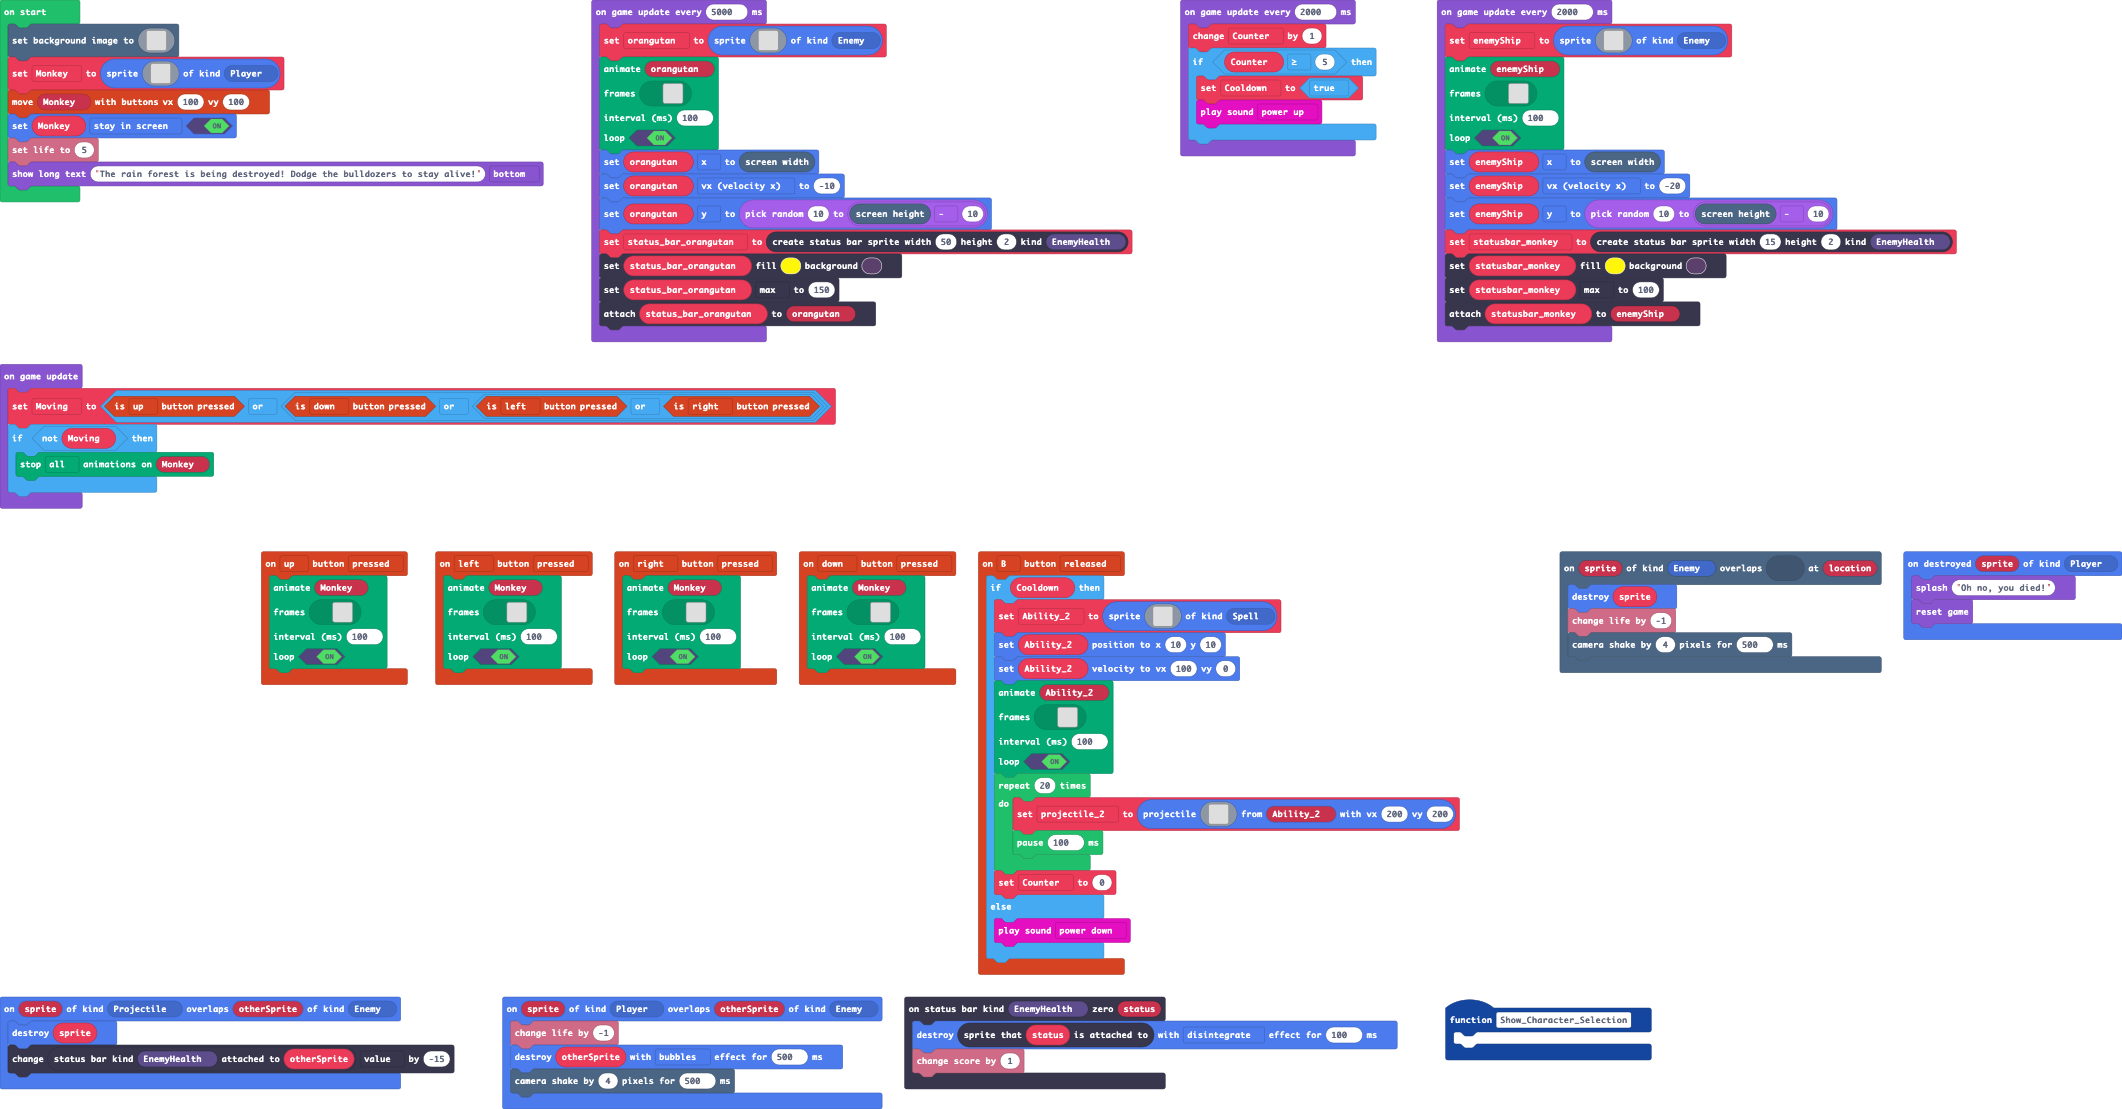
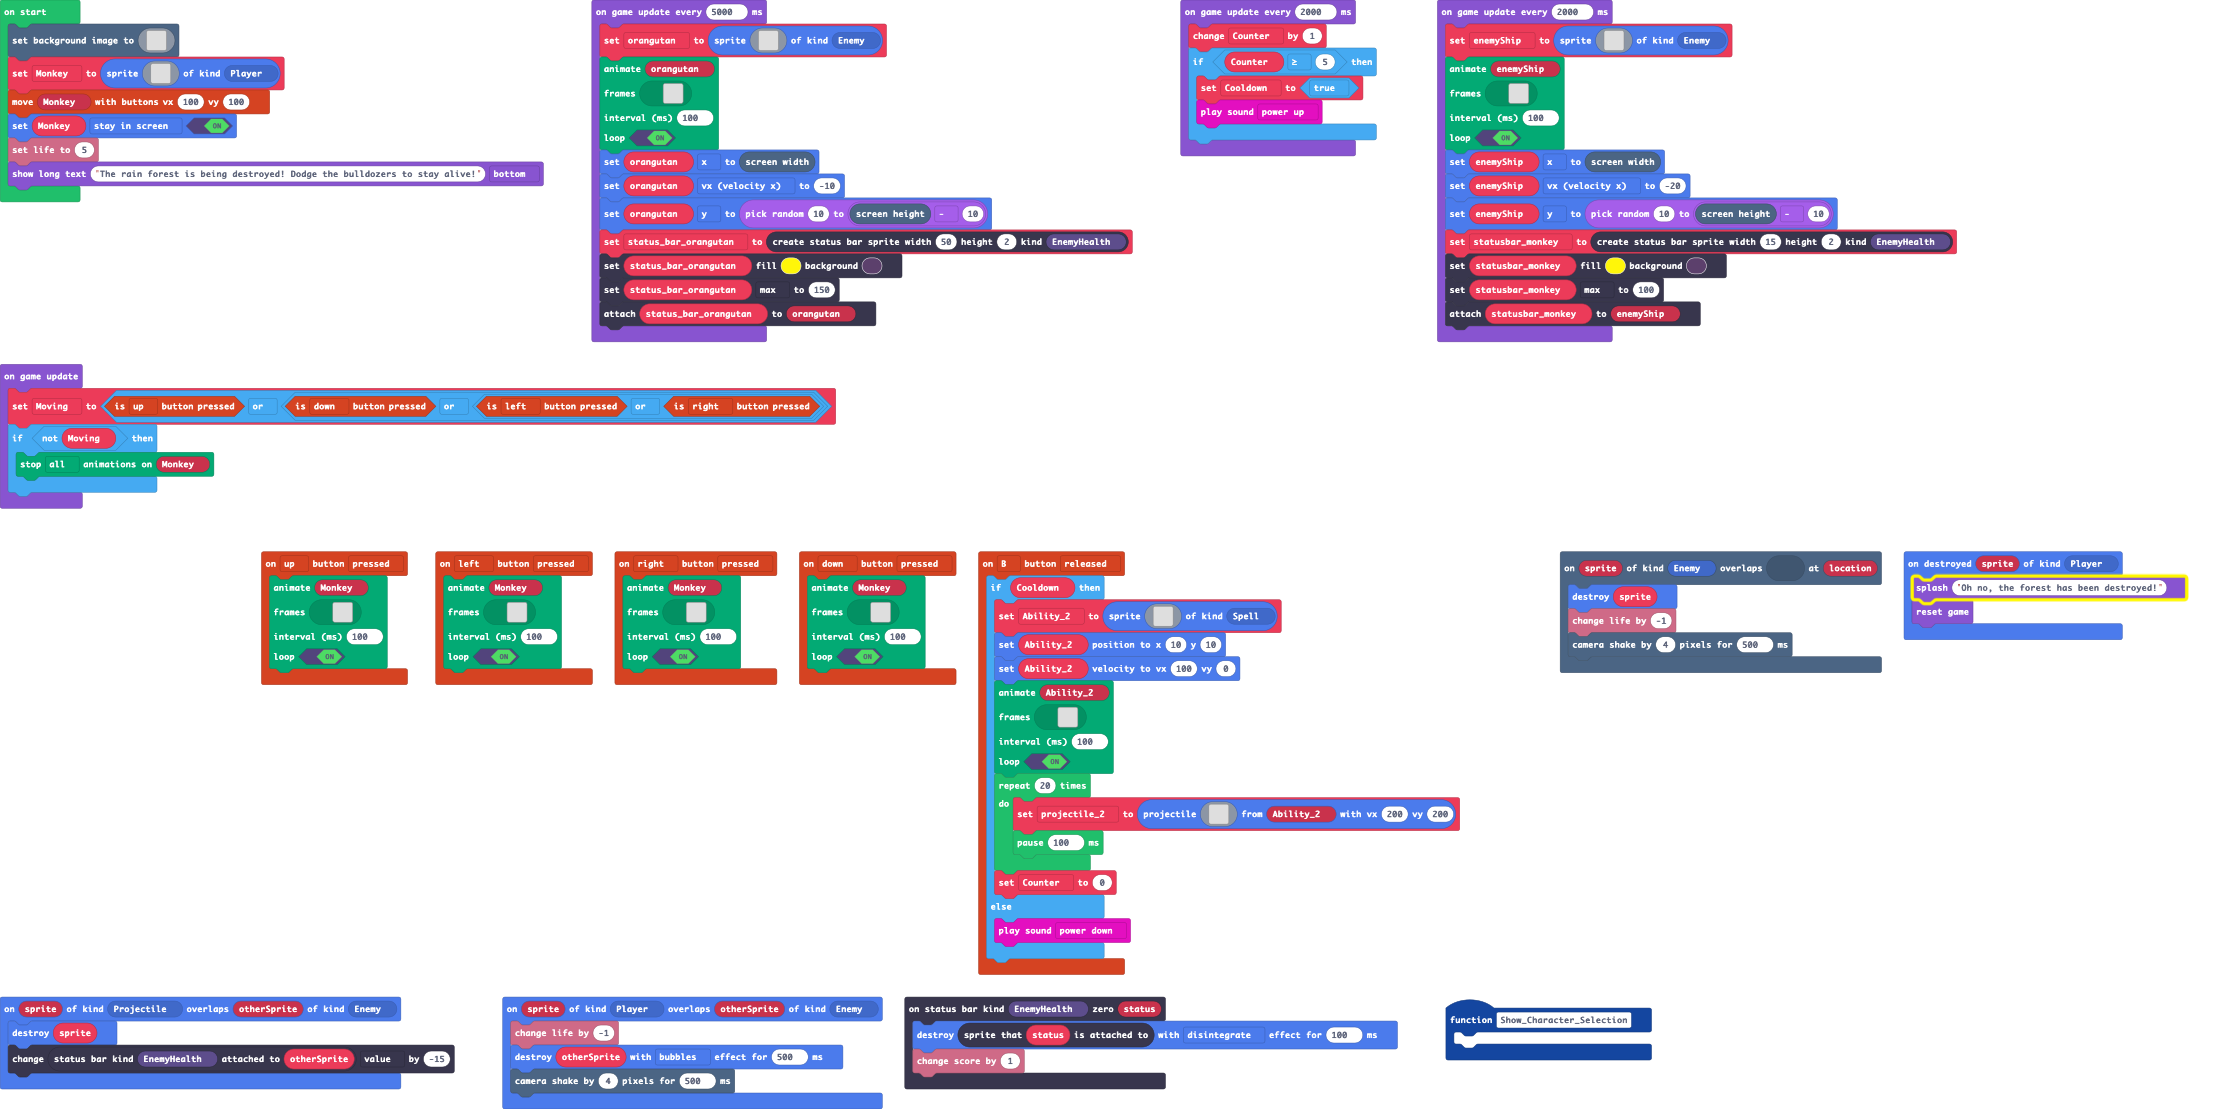
Update main.blocks, main.ts

diff --git a/main.ts b/main.ts
@@ -542,7 +542,7 @@ function Show_Character_Selection () {
 	
 }
 sprites.onDestroyed(SpriteKind.Player, function (sprite) {
-    game.splash("Oh no, you died!")
+    game.splash("Oh no, the forest has been destroyed!")
     game.reset()
 })
 sprites.onOverlap(SpriteKind.Projectile, SpriteKind.Enemy, function (sprite, otherSprite) {
